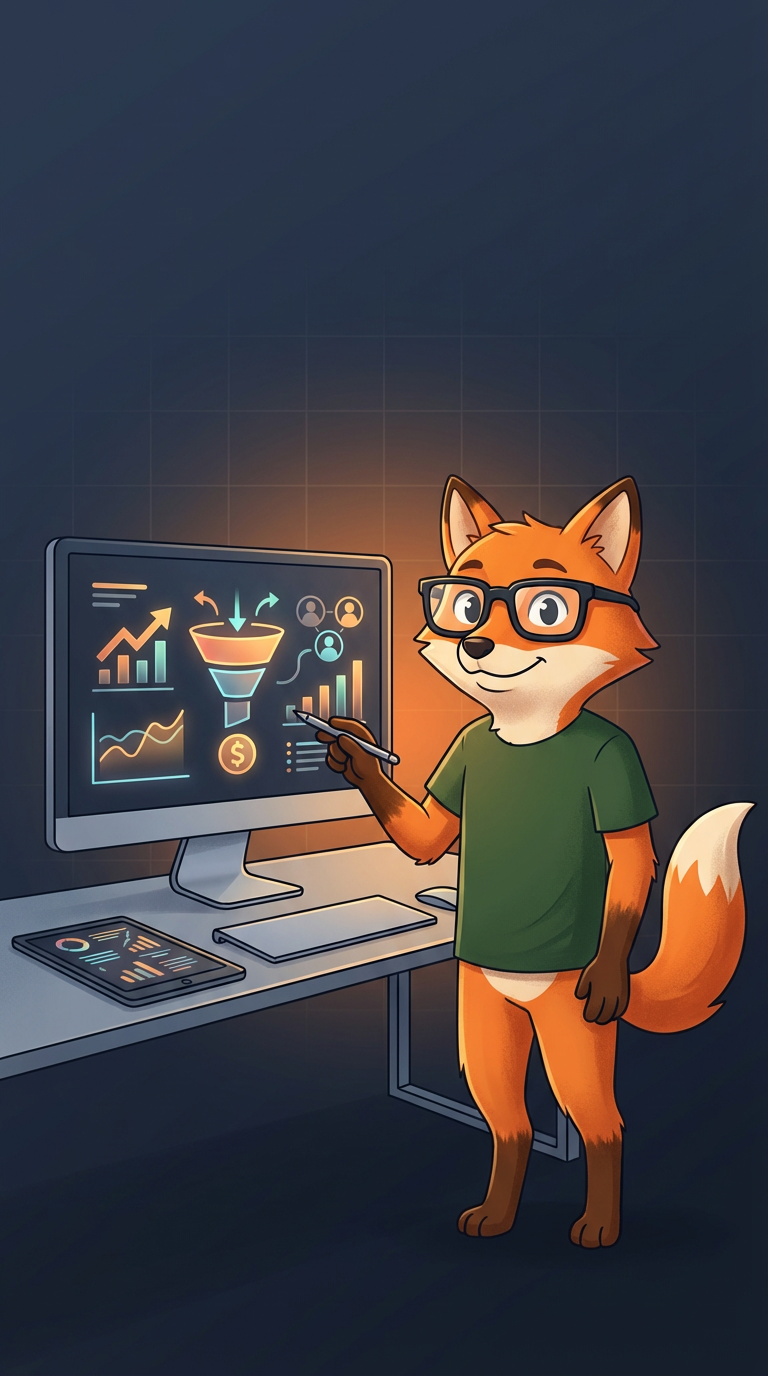
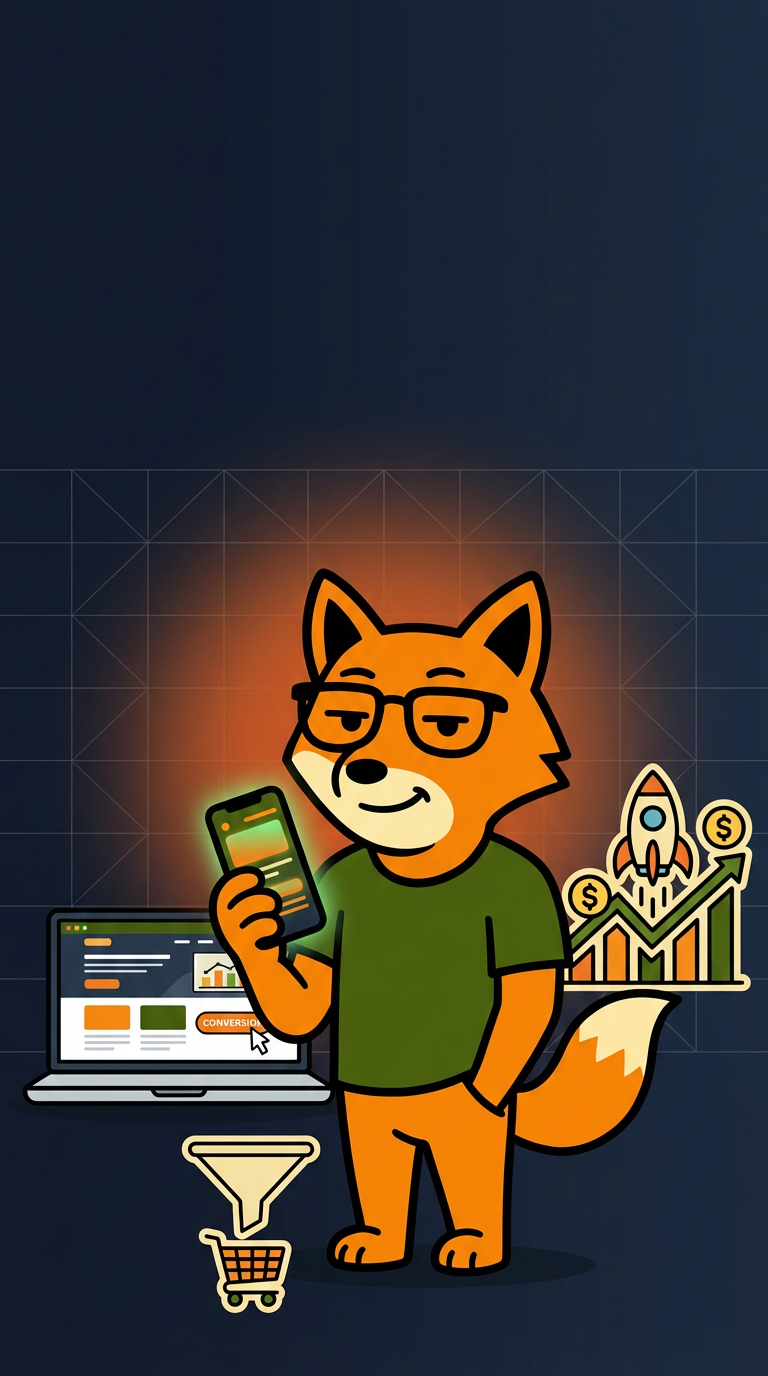
Combine original cartoon fox with new premium dark background
Update cover generator to use a flat cartoon fox style with a premium dark background and subtle geometric grid.

Replit-Commit-Author: Agent
Replit-Commit-Session-Id: b06c9b27-86ec-4092-97ba-2720ae175bcc
Replit-Commit-Checkpoint-Type: full_checkpoint
Replit-Commit-Event-Id: 0f77b781-7637-4c4c-9a22-e3568acb89d4
Replit-Commit-Screenshot-Url: https://storage.googleapis.com/screenshot-production-us-central1/15eb8e50-cae6-4d0c-90c0-f76855d3a5fb/b06c9b27-86ec-4092-97ba-2720ae175bcc/tsEYwLg
Replit-Helium-Checkpoint-Created: true

diff --git a/artifacts/api-server/src/routes/studio/cover-generator.ts b/artifacts/api-server/src/routes/studio/cover-generator.ts
@@ -18,11 +18,12 @@ function buildIllustrationPrompt(videoDescription: string): string {
 REGLA ABSOLUTA - SIN TEXTO:
 NO incluyas NINGUNA letra, palabra, número, rótulo, etiqueta, título, cartel, texto en pantallas, texto en objetos, ni NINGÚN tipo de escritura en la imagen. CERO caracteres alfanuméricos. Si hay una pantalla o monitor, debe mostrar formas abstractas de colores o gráficos abstractos, JAMÁS texto legible. Esta regla no tiene excepciones.
 
-PERSONAJE (copiar EXACTAMENTE de la imagen de referencia adjunta):
+PERSONAJE - ESTILO FLAT CARTOON (copiar EXACTAMENTE de la imagen de referencia adjunta):
 - Zorro naranja antropomórfico con lentes rectangulares negros gruesos y camiseta/polera verde oscuro
 - SIEMPRE de cuerpo completo visible (cabeza, torso, brazos, piernas, cola). NUNCA cortado ni parcialmente visible
 - El zorro debe ocupar al menos 40% del área visual inferior. Es el PROTAGONISTA, no un elemento secundario
-- Debe verse IDÉNTICO al de la referencia en proporciones y rasgos faciales
+- Debe verse IDÉNTICO al de la referencia en proporciones, estilo de dibujo y nivel de detalle
+- El zorro DEBE mantener el estilo FLAT CARTOON de la referencia: líneas de contorno GRUESAS negras, colores PLANOS y sólidos (naranja puro, verde sólido), SIN degradados en el personaje, SIN texturas, SIN sombras realistas. El zorro es un cartoon simple y limpio
 - Expresiones faciales variadas según la escena (confiado, sorprendido, feliz, preocupado, relajado)
 
 ESCENA A ILUSTRAR:
@@ -30,7 +31,7 @@ TEMA DEL VIDEO: "${videoDescription}"
 Adapta la escena al contexto específico del video. Los objetos y elementos deben ser RELEVANTES al tema y contar una historia visual clara.
 
 ZONA SUPERIOR VACÍA (CRÍTICO - NO NEGOCIABLE):
-- El 35% SUPERIOR de la imagen (de 0px a 670px desde arriba) debe ser ÚNICAMENTE fondo limpio sin elementos
+- El 35% SUPERIOR de la imagen (de 0px a 670px desde arriba) debe ser ÚNICAMENTE fondo oscuro limpio sin elementos
 - NADA puede existir en esa zona: ni el zorro, ni objetos, ni sombras, ni líneas, ni bordes
 - Toda la acción visual comienza DEBAJO del píxel 670
 
@@ -40,29 +41,24 @@ COMPOSICIÓN:
 - Dejar espacio entre elementos, no abarrotar la imagen
 - Se pueden incluir 2-4 elementos/objetos además del zorro, pero deben ser parte de la escena narrativa
 
-ESTILO ARTÍSTICO PREMIUM (CAMBIO CRÍTICO - LEER CON ATENCIÓN):
-- Estilo: ilustración editorial moderna premium, como las portadas de revistas tech (Wired, Fast Company) o presentaciones de startups de Silicon Valley
-- Líneas de contorno: FINAS y elegantes (no gruesas como cartoon infantil). Grosor de línea delgado y refinado
-- Iluminación: incluir iluminación suave ambiental con highlights sutiles. El zorro debe tener volumen y profundidad mediante sombras suaves (NO sombras duras de cartoon)
-- Texturizado: los objetos y el zorro deben tener textura sutil (grain ligero o noise artístico), NO completamente planos
-- Gradientes sutiles PERMITIDOS en objetos y en el pelaje del zorro para dar profundidad y sofisticación
-- Paleta de colores refinada: usar versiones más sofisticadas y menos saturadas de los colores base. El naranja del zorro puede tener matices cálidos con sombras terracota. El verde de la camiseta debe ser un verde bosque elegante, no verde primario
+CONTRASTE DE ESTILOS (IMPORTANTE):
+- El ZORRO y los OBJETOS/ICONOS se dibujan en estilo FLAT CARTOON: líneas de contorno gruesas negras, colores planos y vibrantes, sin degradados, sin sombras realistas. Como iconos grandes y simples, estilizados
+- El FONDO es premium y oscuro con efectos de iluminación elegantes (ver abajo)
+- Este contraste entre personaje cartoon sobre fondo premium es intencional y crea un look moderno y llamativo
 
-FONDO PREMIUM:
+FONDO PREMIUM (solo el fondo, NO el personaje):
 - Color base: gradiente vertical muy sutil de #0F172A (slate 900) en la parte inferior a #1E293B (slate 800) en el centro
 - Elementos de fondo: grid geométrico muy sutil (líneas blancas al 3-5% de opacidad) como el que usan sitios como Linear.app o Vercel
 - Un glow ambiental suave y difuso detrás del zorro en tono naranja cálido (#E86A30 al 15-20% de opacidad) con blur amplio, como un halo de luz
 - La zona superior (35%) mantiene el mismo tono oscuro limpio sin elementos
 
-PALETA PERMITIDA:
-- Fondo: tonos slate oscuros (#0F172A, #1E293B)
-- Zorro: naranja cálido con sombras terracota y highlights dorados sutiles
-- Camiseta: verde bosque (#2E7D32) con sombras más oscuras
-- Acentos: naranja marca (#E86A30), blanco, slate claro para highlights
-- Objetos tecnológicos: tonos slate con acentos de naranja o verde brillante para pantallas/indicadores
-- Glow effects: naranja cálido o verde suave, siempre difusos
+PALETA:
+- Fondo: tonos slate oscuros (#0F172A, #1E293B) con glow naranja difuso
+- Zorro: naranja vibrante PLANO (como la referencia), verde sólido en la camiseta, líneas gruesas negras
+- Objetos: colores planos y vibrantes estilo flat icon (naranja, verde, blanco, azul, rojo), con contornos gruesos negros
+- Los objetos tecnológicos pueden tener pequeños acentos brillantes (pantallas con glow verde o naranja)
 
-RECUERDA: CERO TEXTO. Ni una sola letra o número en NINGUNA parte de la imagen. El estilo debe sentirse PREMIUM, CORPORATIVO y TECH — como la portada de un pitch deck de una startup valorada en millones, NO como un cartoon infantil.`;
+RECUERDA: CERO TEXTO. Ni una sola letra o número en NINGUNA parte de la imagen. El zorro debe verse EXACTAMENTE como en la referencia (flat cartoon), pero sobre un fondo oscuro premium elegante.`;
 }
 
 function splitTextIntoLines(text: string, maxCharsPerLine: number): string[] {
